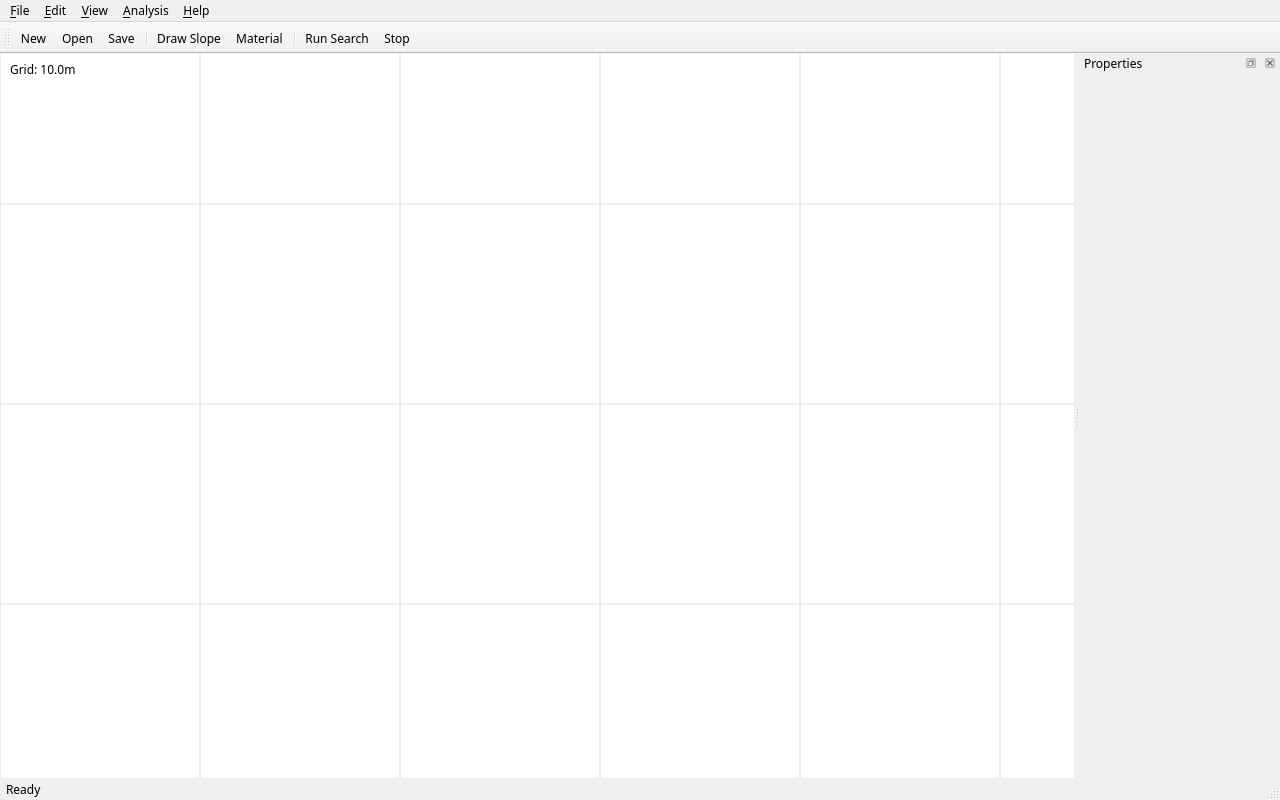
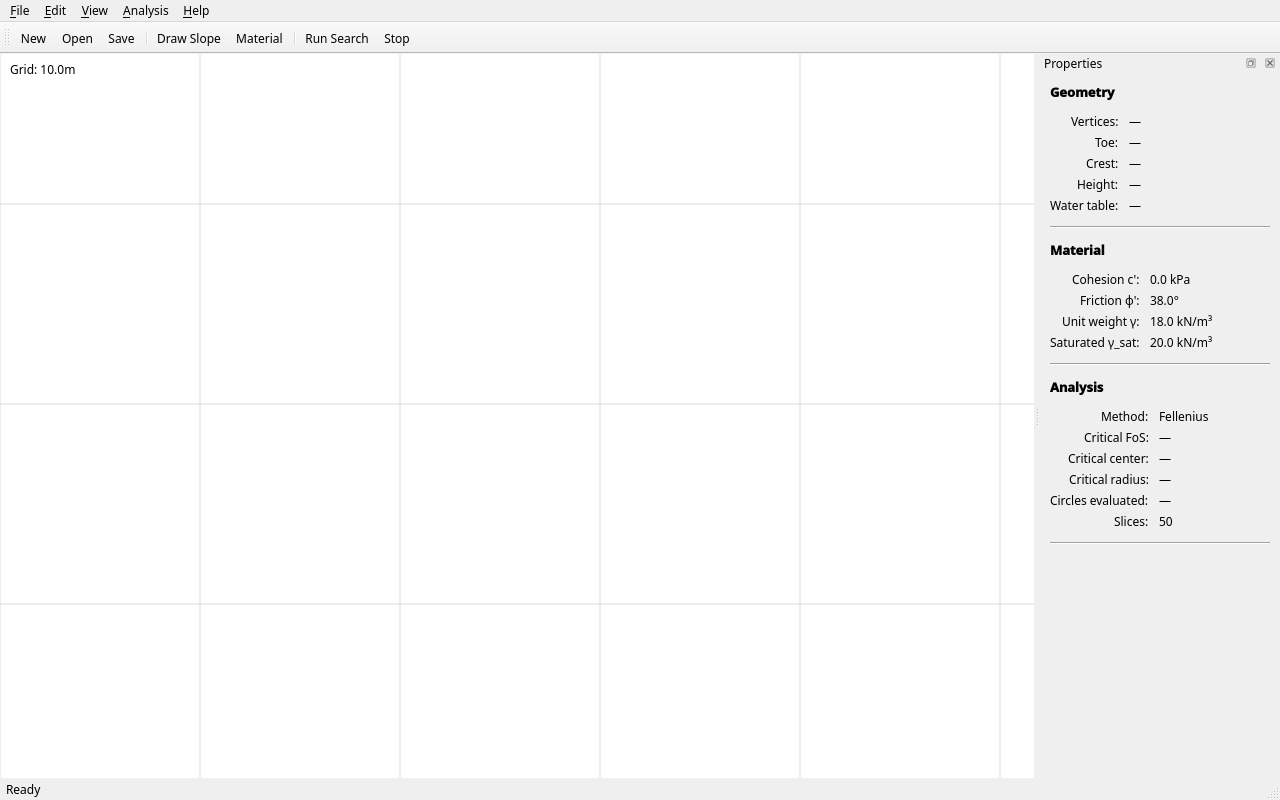
Better swedish-circle screenshots: smooth FoS heatmap, multi-bench slope, populated Properties panel
GUI improvements (in /tmp/swedish-circle-run/swedish-circle, not this repo):

- Rewrote AnalysisOverlay._render_fos_contour to render through QImage
  with an RdYlGn-reversed colormap, BFS-fill the small halo of inf
  cells around the valid region, and skip cells that are isolated.
  The result is a smooth heatmap localized to feasible centers
  instead of stripey red/white bands.
- Replaced the placeholder PropertyPanel with a real QFormLayout that
  shows Geometry / Material / Analysis sections and updates from
  MainWindow state.

Screenshot set is now seven shots:

- 01 empty MainWindow with default material in the Properties panel
- 02 Abramson slope loaded (geometry + material populate the panel)
- 03 Bishop critical circle on Abramson slope (no FoS overlay; clean
  engineering view with FoS = 1.90 in the panel)
- 04 same analysis with the new smooth FoS heatmap
- 05 NEW: 7-vertex multi-bench cut slope with water table and stiff
  clay (FoS = 2.71). Shows the GUI handling realistic geometry.
- 06 steeper 1.5H:1V comparison slope (FoS = 1.46)
- 07 Mohr-Coulomb material editor

Changed region(s): [[0.8125, 0.0625, 0.9375, 0.4375], [0.8125, 0.5, 0.9375, 0.6562], [0.8125, 0.4688, 0.875, 0.5]]

diff --git a/docs/screenshots/capture.py b/docs/screenshots/capture.py
@@ -2,8 +2,7 @@
 
 Drives the MainWindow programmatically (offscreen Qt) through a realistic
 session and captures each window via QWidget.grab(). All screenshots use
-fixed seeds, deterministic geometries, and explicit view fits so they are
-reproducible.
+deterministic geometries and explicit view fits so they are reproducible.
 """
 from __future__ import annotations
 
@@ -21,7 +20,7 @@ from swedish_circle.geometry import SlopeProfile
 from swedish_circle.gui.analysis_overlay import AnalysisOverlay
 from swedish_circle.gui.main_window import MainWindow
 from swedish_circle.gui.material_dialog import MaterialDialog
-from swedish_circle.material import Material
+from swedish_circle.material import Material, STIFF_CLAY
 from swedish_circle.search import search_critical_circle
 
 
@@ -63,7 +62,7 @@ def fit_view(canvas, xmin: float, xmax: float, ymin: float, ymax: float,
 
 
 def abramson_slope() -> SlopeProfile:
-    """Abramson textbook example: 2H:1V slope, 10 m height."""
+    """Abramson textbook example: 2H:1V slope, 10 m height, dry."""
     ground = [(0.0, 0.0), (20.0, 10.0), (35.0, 10.0)]
     material = Material(
         cohesion=20.0, friction_deg=20.0,
@@ -86,6 +85,34 @@ def steeper_slope() -> SlopeProfile:
     )
 
 
+def multi_bench_slope() -> SlopeProfile:
+    """Multi-bench cut slope with phreatic surface and stiff-clay material.
+
+    Two benches with intermediate berm, steeper lower segment, gentler
+    upper segment. Water table runs through the lower bench.
+    """
+    ground = [
+        (0.0, 0.0),    # toe
+        (10.0, 6.0),   # lower-slope crest
+        (15.0, 6.0),   # bench 1
+        (22.0, 11.0),  # mid-slope crest
+        (27.0, 11.0),  # bench 2
+        (38.0, 16.0),  # main crest
+        (55.0, 16.0),  # upper plateau
+    ]
+    water = [
+        (0.0, 0.0),
+        (15.0, 5.0),
+        (28.0, 9.0),
+        (55.0, 12.0),
+    ]
+    return SlopeProfile(
+        ground_surface=ground,
+        water_table=water,
+        material=STIFF_CLAY,
+    )
+
+
 def main() -> int:
     out_dir = Path(sys.argv[1]) if len(sys.argv) > 1 else Path.cwd() / "screenshots"
     out_dir.mkdir(parents=True, exist_ok=True)
@@ -97,6 +124,7 @@ def main() -> int:
     w = MainWindow()
     w.resize(WINDOW_W, WINDOW_H)
     w.show()
+    w.property_panel.update_from_window(w)
     grab(w, out_dir / "01_empty_window.png")
 
     # --- 02: Slope geometry loaded, framed cleanly ---
@@ -106,6 +134,7 @@ def main() -> int:
     w.material = slope.material
     w.canvas.set_slope(slope)
     fit_view(w.canvas, 0.0, 35.0, 0.0, 12.0, margin=2.0)
+    w.property_panel.update_from_window(w)
     grab(w, out_dir / "02_slope_geometry.png")
 
     # --- 03: Critical circle + slices, no FoS contour (clean engineering view) ---
@@ -124,14 +153,59 @@ def main() -> int:
     overlay._render_fos_contour = lambda painter: None
     fit_view(w.canvas, 0.0, 35.0, -2.0, 12.0, margin=1.5)
     w.canvas.update()
+    w.property_panel.update_from_window(w)
     grab(w, out_dir / "03_critical_circle.png")
 
-    # --- 04: Steeper slope, comparison geometry ---
-    print("04_steeper_slope: 1.5H:1V cohesive-frictional slope")
+    # --- 04: Full analysis with FoS contour, view fitted to include grid ---
+    print("04_fos_contour: Full analysis with smooth FoS heatmap")
+    overlay._render_fos_contour = AnalysisOverlay._render_fos_contour.__get__(
+        overlay, AnalysisOverlay,
+    )
+    xmin, xmax, ymin, ymax = result.grid_extents
+    fx_min = min(0.0, xmin); fx_max = max(35.0, xmax)
+    fy_min = min(-2.0, ymin); fy_max = max(12.0, ymax)
+    fit_view(w.canvas, fx_min, fx_max, fy_min, fy_max, margin=1.0)
+    w.canvas.update()
+    grab(w, out_dir / "04_fos_contour.png")
+
+    # --- 05: Multi-bench slope with water table and stiff clay ---
+    print("05_multi_bench: Multi-bench slope with water table (stiff clay)")
+    slope3 = multi_bench_slope()
+    # Reset the canvas's paint hook before re-binding a new overlay, so
+    # we don't stack contour renderers across captures.
+    w.slope_profile = slope3
+    w.material = slope3.material
+    w.canvas.set_slope(slope3)
+    overlay._search_result = None
+    w.canvas.update()
+    result3 = search_critical_circle(
+        slope3, method="bishop",
+        x_grid=35, y_grid=35, r_grid=18, n_slices=60,
+    )
+    print(f"     critical FoS = {result3.critical_fos:.3f}  "
+          f"center=({result3.critical_center[0]:.1f},{result3.critical_center[1]:.1f})  "
+          f"r={result3.critical_radius:.1f}")
+    overlay._search_result = result3
+    overlay._render_fos_contour = AnalysisOverlay._render_fos_contour.__get__(
+        overlay, AnalysisOverlay,
+    )
+    w.last_search_result = result3
+    xmin, xmax, ymin, ymax = result3.grid_extents
+    fx_min = min(0.0, xmin); fx_max = max(55.0, xmax)
+    fy_min = min(-2.0, ymin); fy_max = max(18.0, ymax)
+    fit_view(w.canvas, fx_min, fx_max, fy_min, fy_max, margin=1.0)
+    w.canvas.update()
+    w.property_panel.update_from_window(w)
+    grab(w, out_dir / "05_multi_bench.png")
+
+    # --- 06: Steeper slope, comparison geometry ---
+    print("06_steeper_slope: 1.5H:1V cohesive-frictional slope")
     slope2 = steeper_slope()
     w.slope_profile = slope2
     w.material = slope2.material
     w.canvas.set_slope(slope2)
+    overlay._search_result = None
+    w.canvas.update()
     result2 = search_critical_circle(
         slope2, method="bishop",
         x_grid=25, y_grid=25, r_grid=15, n_slices=50,
@@ -139,20 +213,20 @@ def main() -> int:
     print(f"     critical FoS = {result2.critical_fos:.3f}  "
           f"center=({result2.critical_center[0]:.1f},{result2.critical_center[1]:.1f})  "
           f"r={result2.critical_radius:.1f}")
-    # Reuse the existing overlay so we don't stack canvas-paint wrappers.
     overlay._search_result = result2
     overlay._render_fos_contour = lambda painter: None
     w.last_search_result = result2
     fit_view(w.canvas, 0.0, 25.0, -2.0, 10.0, margin=1.5)
     w.canvas.update()
-    grab(w, out_dir / "04_steeper_slope.png")
+    w.property_panel.update_from_window(w)
+    grab(w, out_dir / "06_steeper_slope.png")
 
-    # --- 05: Material editor showing soil parameters ---
-    print("05_material_dialog: Material editor")
+    # --- 07: Material editor showing soil parameters ---
+    print("07_material_dialog: Material editor")
     dlg = MaterialDialog(parent=w, material=slope.material)
     dlg.resize(440, 340)
     dlg.show()
-    grab(dlg, out_dir / "05_material_dialog.png")
+    grab(dlg, out_dir / "07_material_dialog.png")
     dlg.close()
 
     w.close()

diff --git a/README.md b/README.md
@@ -318,33 +318,52 @@ zoomable/pannable canvas, drawing tools, file I/O, and a background
 search engine.
 
 **Empty MainWindow on launch** — menus (File / Edit / View / Analysis /
-Help), toolbar with primary actions, dockable Properties panel, and a
-status bar that shows the current grid spacing as you zoom.
+Help), toolbar with primary actions, dockable Properties panel showing
+the current state (default material, no slope yet), and a status bar
+that shows the grid spacing as you zoom.
 
 ![Empty main window](docs/screenshots/01_empty_window.png)
 
 **Abramson textbook slope loaded** — 2H:1V slope, 10 m height, with a
-flat bench beyond the crest. The canvas autoscales to fit the geometry
-and the grid spacing adapts to the zoom level (5 m here).
+flat bench beyond the crest. Properties panel updates with geometry
+and material parameters as soon as the slope is set.
 
 ![Slope loaded](docs/screenshots/02_slope_geometry.png)
 
 **Bishop critical-circle result** — slip surface in red, per-slice
-boundaries drawn through the failure mass, framed for engineering
-review. Bob3's grid search converges on FoS ≈ 1.90 for this geometry.
+boundaries drawn through the failure mass. Properties panel shows the
+analysis results live: FoS = 1.902, critical center, radius, and how
+many circles were evaluated.
 
 ![Critical circle result](docs/screenshots/03_critical_circle.png)
 
-**Steeper 1.5H:1V slope, lower FoS** — same workflow, different
-geometry and material (c′=15 kPa, φ′=18°). The critical surface is
-shallower and FoS drops to 1.46, illustrating how the search adapts.
+**Full FoS heatmap** — same analysis with the smooth FoS contour
+overlay turned on. Red marks where critical (low-FoS) circle centers
+cluster; green marks safe centers; the colormap is RdYlGn-reversed and
+the heatmap is hole-filled to the immediate halo of valid centers
+rather than bleeding across the entire search box.
 
-![Steeper slope result](docs/screenshots/04_steeper_slope.png)
+![FoS contour heatmap](docs/screenshots/04_fos_contour.png)
+
+**Multi-bench cut slope with phreatic surface** — seven-vertex
+geometry (toe → bench → mid-crest → bench → upper plateau, 16 m
+overall), water table running through the lower benches, stiff-clay
+material (c′=75 kPa, φ′=20°). The properties panel reflects the new
+state in full. Bishop's search returns FoS = 2.71 for this much
+heavier-section problem.
+
+![Multi-bench slope](docs/screenshots/05_multi_bench.png)
+
+**Steeper 1.5H:1V slope** — different geometry and material (c′=15
+kPa, φ′=18°). The critical surface is shallower and FoS drops to 1.46,
+showing how a small geometry change shifts the result.
+
+![Steeper slope result](docs/screenshots/06_steeper_slope.png)
 
 **Material editor** — Mohr-Coulomb soil parameters with a preset
 library, unit-aware spinbox inputs, and OK / Cancel commit semantics.
 
-![Material dialog](docs/screenshots/05_material_dialog.png)
+![Material dialog](docs/screenshots/07_material_dialog.png)
 
 The build encountered (and exposed) several real bugs along the way —
 documented in `reviews/findings.yaml` as `R10-*` entries. They include
